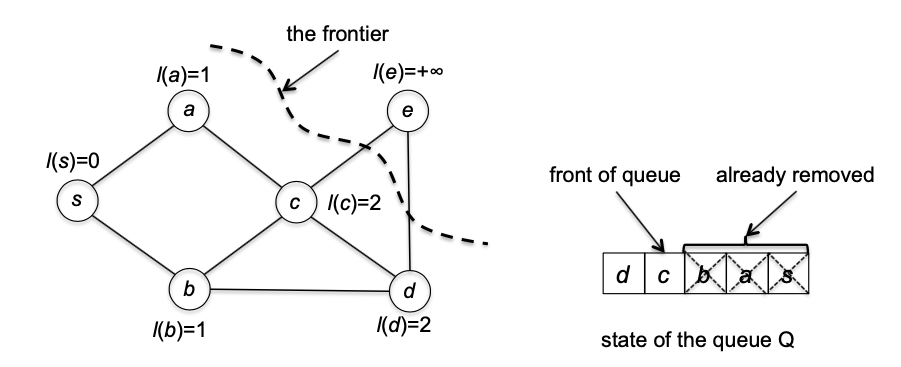
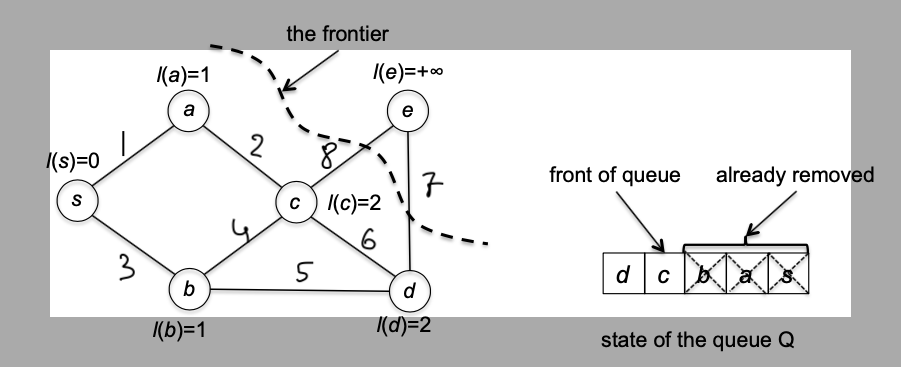
- undirected finished

diff --git a/src/Algorithms Elluminated Part2/8.2 Breadth-First Search/BFS - undirected.ts b/src/Algorithms Elluminated Part2/8.2 Breadth-First Search/BFS - undirected.ts
@@ -7,42 +7,42 @@ import { UndirectedEdge, UndirectedVertex, UndirectedGraph } from '../Graph';
 
 const S: UndirectedVertex = {
   id: 'S',
-  edges: ['SA', 'SB'],
+  edges: ['1', '3'],
 };
 const A: UndirectedVertex = {
   id: 'A',
-  edges: ['AS', 'AC'],
+  edges: ['1', '2'],
 };
 const B: UndirectedVertex = {
   id: 'B',
-  edges: ['BS', 'BC', 'BD'],
+  edges: ['3', '4', '5'],
 };
 const C: UndirectedVertex = {
   id: 'C',
-  edges: ['CA', 'CB', 'CD', 'CE'],
+  edges: ['2', '8', '4', '6'],
 };
 
 const D: UndirectedVertex = {
   id: 'D',
-  edges: ['DB', 'DC', 'DE'],
+  edges: ['5', '6', '7'],
 };
 const E: UndirectedVertex = {
   id: 'E',
-  edges: ['EC', 'ED'],
+  edges: ['8', '7'],
 };
 
-const SA: UndirectedEdge = { id: 'SA', vertices: ['A', 'S'] };
-const SB: UndirectedEdge = { id: 'SB', vertices: ['B', 'S'] };
-const AC: UndirectedEdge = { id: 'AC', vertices: ['A', 'C'] };
-const BC: UndirectedEdge = { id: 'BC', vertices: ['C', 'B'] };
-const BD: UndirectedEdge = { id: 'BD', vertices: ['B', 'D'] };
-const DC: UndirectedEdge = { id: 'DC', vertices: ['D', 'C'] };
-const EC: UndirectedEdge = { id: 'EC', vertices: ['E', 'C'] };
-const ED: UndirectedEdge = { id: 'ED', vertices: ['E', 'D'] };
+const e1: UndirectedEdge = { id: '1', vertices: ['A', 'S'] };
+const e2: UndirectedEdge = { id: '2', vertices: ['A', 'C'] };
+const e3: UndirectedEdge = { id: '3', vertices: ['S', 'B'] };
+const e4: UndirectedEdge = { id: '4', vertices: ['B', 'C'] };
+const e5: UndirectedEdge = { id: '5', vertices: ['D', 'B'] };
+const e6: UndirectedEdge = { id: '6', vertices: ['C', 'D'] };
+const e7: UndirectedEdge = { id: '7', vertices: ['E', 'D'] };
+const e8: UndirectedEdge = { id: '8', vertices: ['E', 'C'] };
 
 const graph: UndirectedGraph = {
   vertices: [S, A, B, C, D, E],
-  edges: [SA, SB, AC, BC, BD, DC, EC, ED],
+  edges: [e1,e2,e3,e4,e5,e6,e7,e8],
 };
 
 export function findReachableVerticesFromUndirectedGraph(graph: UndirectedGraph, startVertex: UndirectedVertex): UndirectedVertex[] {
@@ -62,16 +62,18 @@ export function findReachableVerticesFromUndirectedGraph(graph: UndirectedGraph,
     console.log(`verifying ${sourceVertex?.id} edges: `);
     sourceVertex?.edges?.forEach(edgeId => {
       const edge = edgesMap[edgeId];
-      const targetVertex = verticesMap[edge.target];
-      if(targetVertex.id === sourceVertex.id) {
-
-      }
-      if(!target.explored){
-        target.explored = true;
-        reachableVertexQueue.push(target);
-        console.log(`...target ${target.id} marked as explored`);
+      let targetVertex = null
+      if(verticesMap[edge.vertices[0]].id === sourceVertex.id) {
+        targetVertex = verticesMap[edge.vertices[1]]
       }else{
-        console.log(`...target ${target.id} is already explored`);
+        targetVertex = verticesMap[edge.vertices[0]]
+      }
+      if(!targetVertex.explored){
+        targetVertex.explored = true;
+        reachableVertexQueue.push(targetVertex);
+        console.log(`...edge ${edge.id}, targetVertex ${targetVertex.id} marked as explored`);
+      }else{
+        console.log(`...edge ${edge.id}, targetVertex ${targetVertex.id} is already explored`);
       }
     });
   }

diff --git a/src/Algorithms Elluminated Part2/Graph.ts b/src/Algorithms Elluminated Part2/Graph.ts
@@ -1,4 +1,4 @@
-type id = string;
+type id = string | number;
 
 export interface Edge {
   weight?: number;
